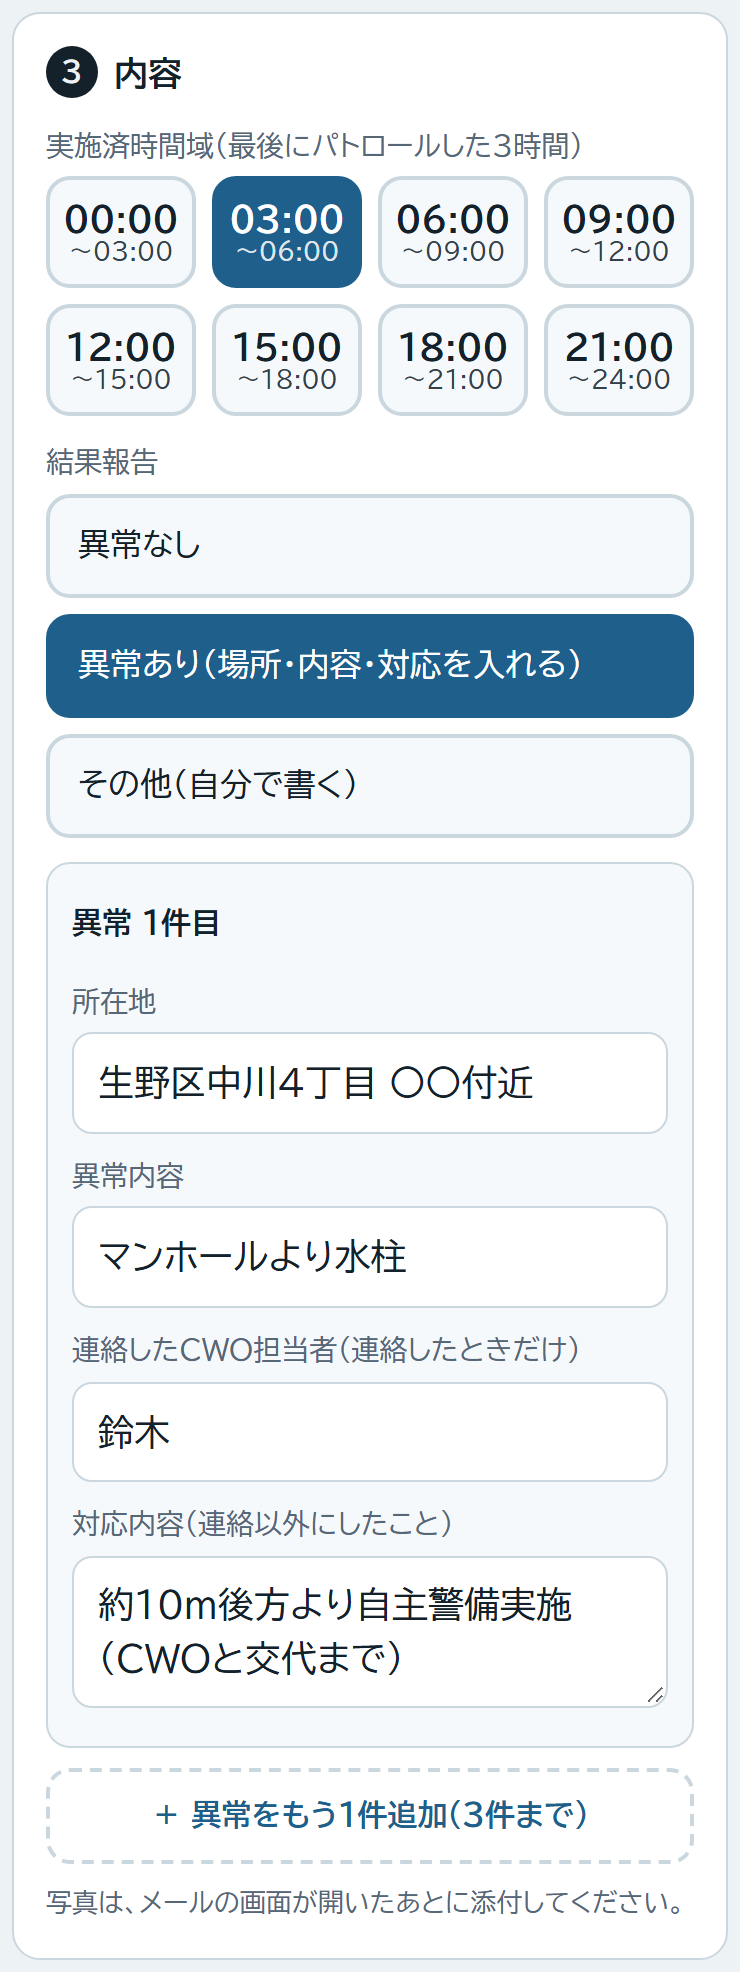
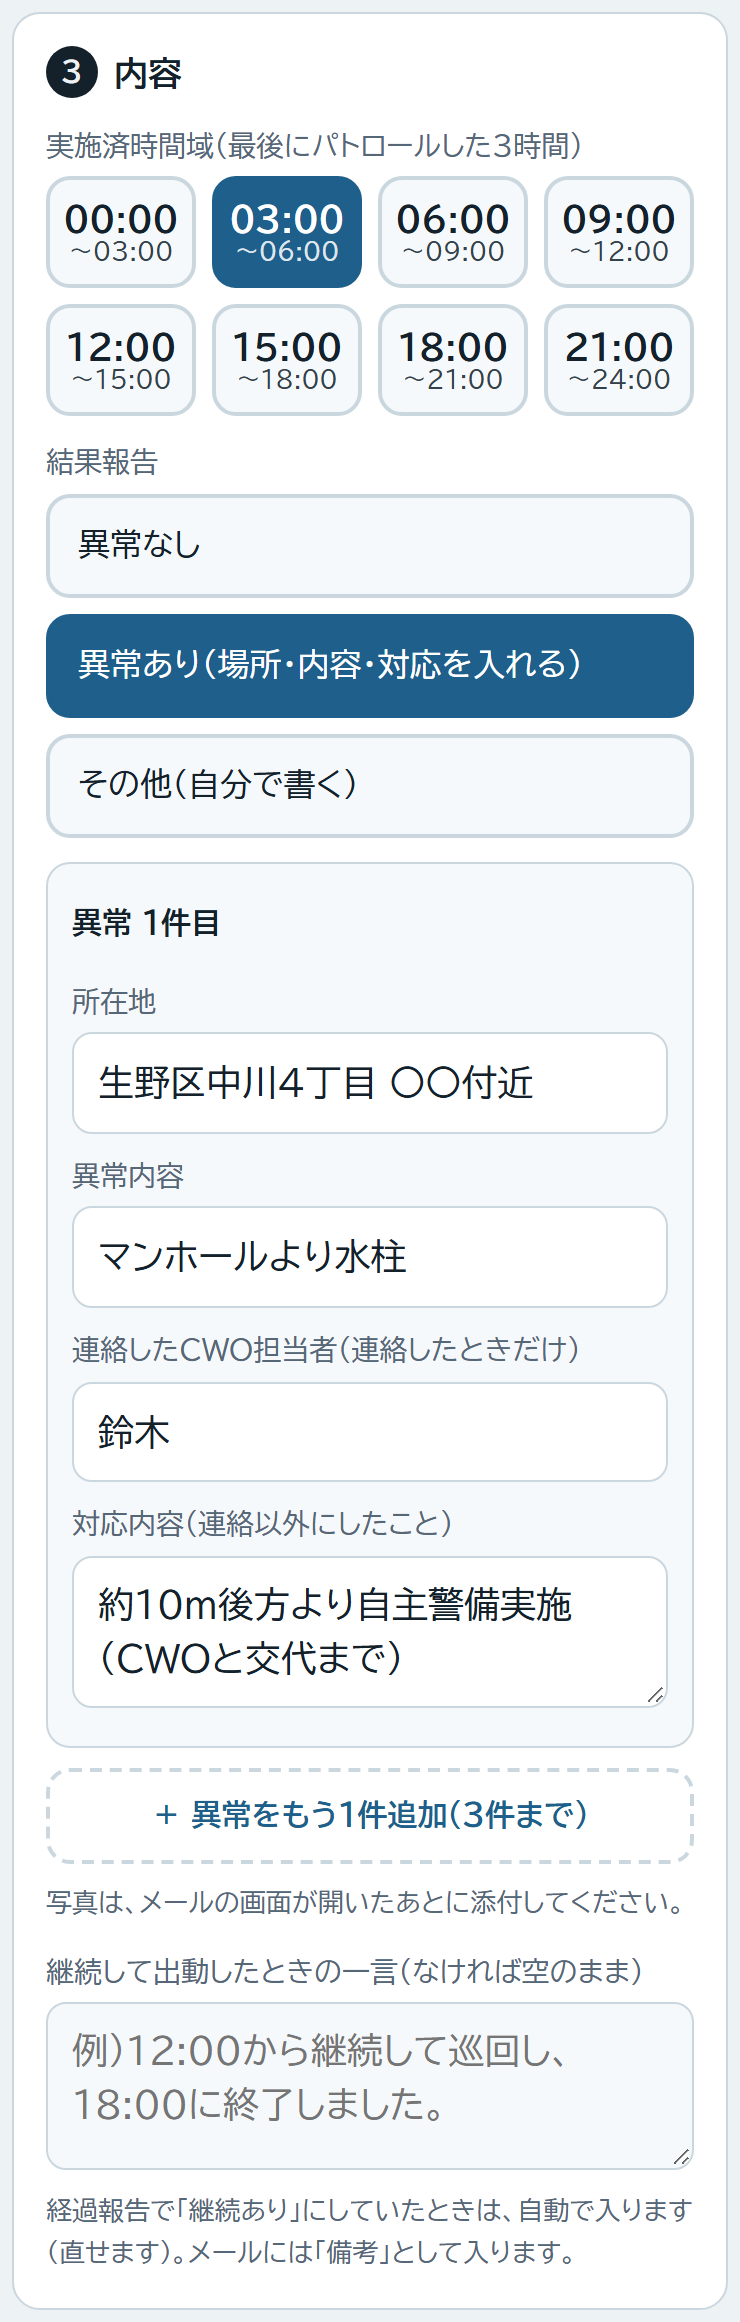
終了報告：継続後は実施済を継続ブロックに合わせ、継続の一言（備考）欄を追加
- 経過で「継続あり」にしてから終了に切り替えると、実施済時間域を継続時間域のブロックに合わせる
- 終了報告に「継続して出動したときの一言」欄を追加。継続ありのときは「12:00から継続して巡回し、18:00に終了しました。」を自動で入れる（直せる）。入れたときだけメールに「備考：」として載せる
- ガイドの説明とスクショを更新

diff --git a/index.html b/index.html
@@ -291,6 +291,11 @@ mark.miss{background:none;color:var(--miss);font-weight:700}
       <label for="other">結果報告の内容</label>
       <textarea id="other" name="other" placeholder="起きたことをそのまま書いてください"></textarea>
     </div>
+    <div data-for="end">
+      <label for="endNote">継続して出動したときの一言（なければ空のまま）</label>
+      <textarea id="endNote" name="endNote" placeholder="例）12:00から継続して巡回し、18:00に終了しました。"></textarea>
+      <p class="hint" style="margin-top:4px">経過報告で「継続あり」にしていたときは、自動で入ります（直せます）。メールには「備考」として入ります。</p>
+    </div>
 
     <div data-for="prog" class="staff">
       <label class="check"><input type="checkbox" id="contOn" name="contOn">次の3時間も続けて出動する（継続あり）</label>
@@ -348,7 +353,7 @@ mark.miss{background:none;color:var(--miss);font-weight:700}
   var KEY = 'rainReport.form.v1';
   var CFG = 'rainReport.cfg.v1';
   var FIELDS = ['me','area','rDate','rTime','n1','p1','n2','p2','type',
-    'planB','doneB','result','abnN','place1','what1','cwo1','act1','place2','what2','cwo2','act2','place3','what3','cwo3','act3','other','contOn','contSame','cn1','cp1','cn2','cp2','contB'];
+    'planB','doneB','result','abnN','place1','what1','cwo1','act1','place2','what2','cwo2','act2','place3','what3','cwo3','act3','other','contOn','contSame','cn1','cp1','cn2','cp2','contB','endNote'];
   var WD = ['日','月','火','水','木','金','土'];
   var TITLE = { start:'業務開始報告', prog:'業務実施状況（継続・経過報告）', end:'業務終了報告' };
   var KUBUN = { start:'業務開始報告', prog:'継続・経過報告', end:'業務終了報告' };
@@ -582,6 +587,7 @@ mark.miss{background:none;color:var(--miss);font-weight:700}
         L = L.concat(get('contSame') ? staff : staffLines(get('cn1'),get('cp1'),get('cn2'),get('cp2')));
       }
     }
+    if(t === 'end' && get('endNote')) L.push('', '備考：' + get('endNote'));
     L.push('', '以上、ご確認のほどよろしくお願いいたします。');
     return { to: cfg.to.slice(), cc: cfg.cc.slice(), sub: sub, body: L.join('\n') };
   }
@@ -651,6 +657,11 @@ mark.miss{background:none;color:var(--miss);font-weight:700}
     var nm = e.target.name;
     if(nm === 'doneB') set('contB', nextBlk(get('doneB')));
     if(nm === 'rTime') recvChanged();
+    // 継続ありの経過報告から終了に切り替えたとき：実施済を継続のブロックに合わせ、備考に一言入れる
+    if(nm === 'type' && get('type') === 'end' && get('contOn') && get('contB')){
+      set('doneB', get('contB'));
+      if(!get('endNote') && get('planB')) set('endNote', hhmm(+get('planB')) + 'から継続して巡回し、' + hhmm(+get('doneB') + 3) + 'に終了しました。');
+    }
     if(nm === 'type' || nm === 'planB' || nm === 'contOn') fillDefaults();
     render();
   });
@@ -690,7 +701,7 @@ mark.miss{background:none;color:var(--miss);font-weight:700}
     clearTimeout(armTimer); rb.classList.remove('arm'); rb.textContent = rbText;
     set('rDate', nowParts().date);
     ['rTime','planB','doneB','contB','other'].forEach(function(k){ set(k,''); });
-    set('contOn', false);
+    set('contOn', false); set('endNote', '');
     [1,2,3].forEach(function(i){ AK.forEach(function(k){ set(k+i,''); }); });
     set('abnN','1');
     set('result','ok'); set('type','start');

diff --git a/guide.html b/guide.html
@@ -165,7 +165,7 @@ ul{margin:0;padding-left:1.2em;display:flex;flex-direction:column;gap:4px}
         <ul>
           <li><span class="pill s">出動</span> 従事対応時間域：予報された3時間</li>
           <li><span class="pill p">経過</span> 実施済時間域：パトロールした3時間。続けて出動するときだけ、継続時間域（次の3時間）が自動で入ります</li>
-          <li><span class="pill e">終了</span> 実施済時間域：最後にパトロールした3時間</li>
+          <li><span class="pill e">終了</span> 実施済時間域：最後にパトロールした3時間。経過で「継続あり」にしていたときは、継続した3時間が自動で入ります。あわせて「継続して出動したときの一言」に「12:00から継続して巡回し、18:00に終了しました。」のような文が入り、メールに「備考」として載ります（直したり消したりできます）</li>
         </ul>
       </div>
       <figure><img src="img/04_start.png" alt="従事対応時間域の3時間ごとのボタン"></figure>
